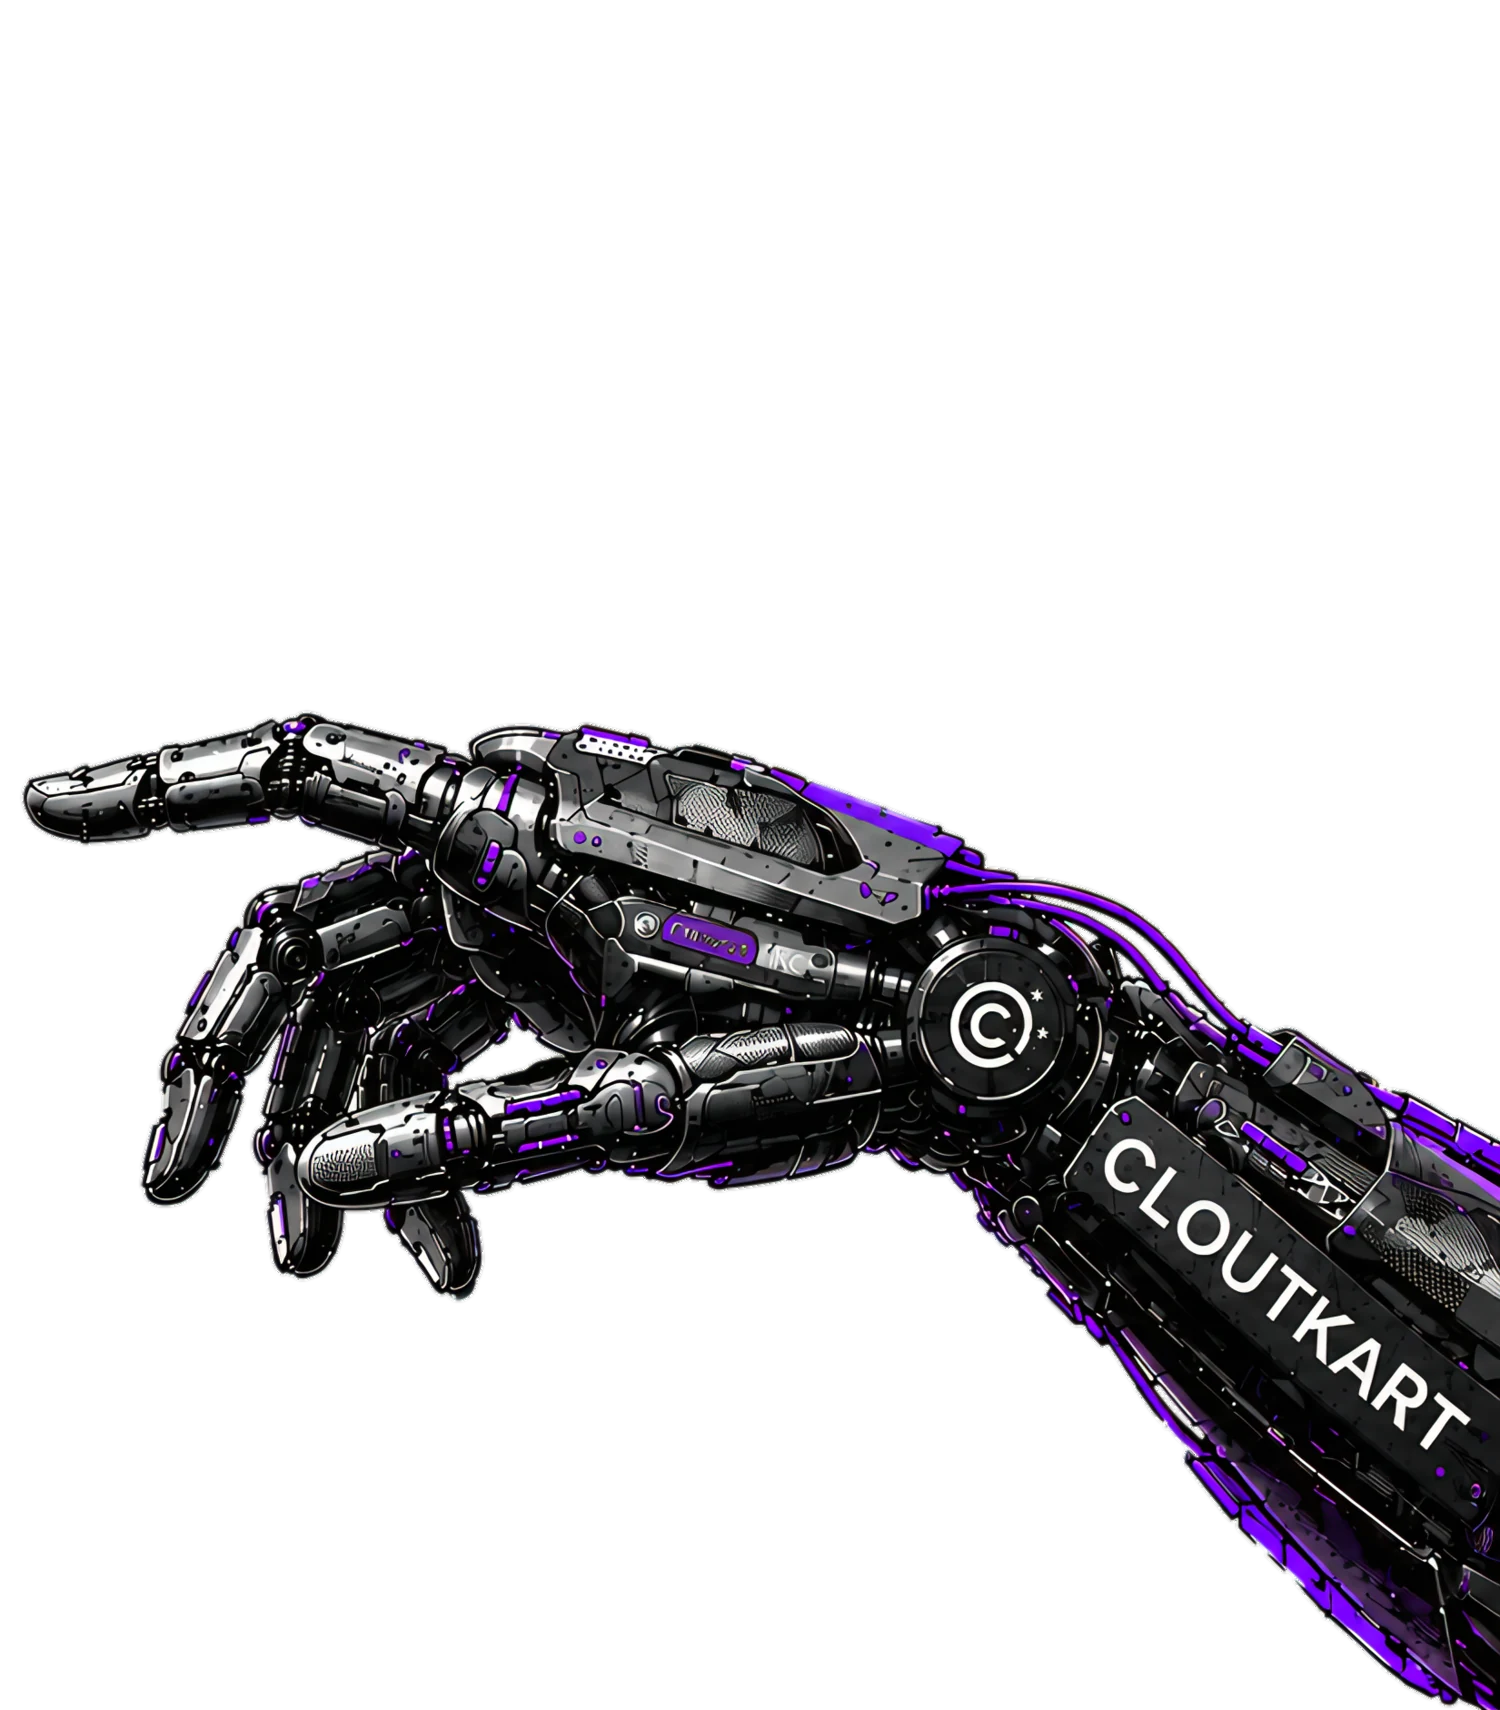
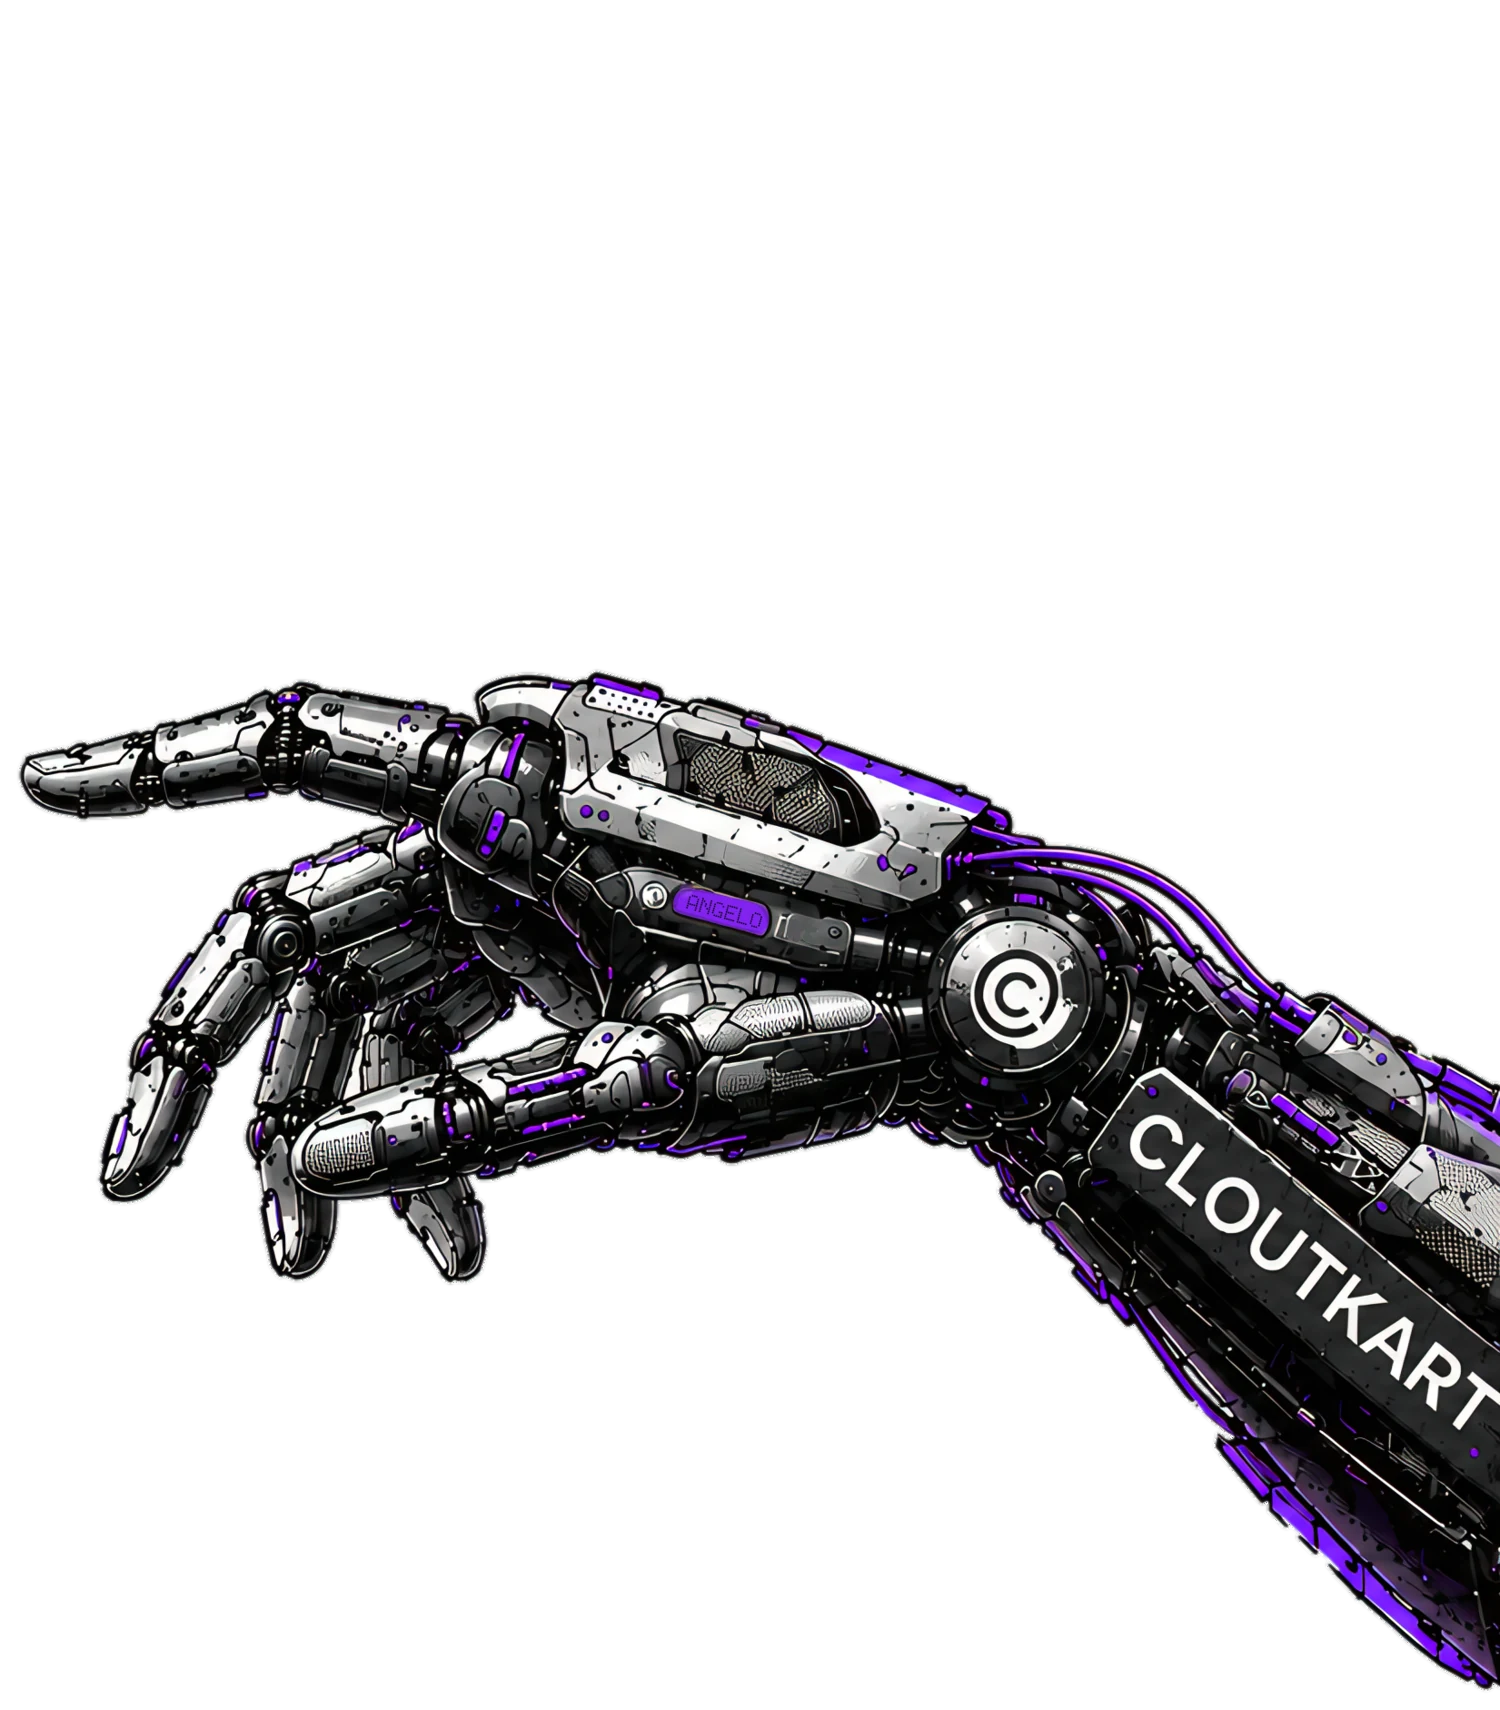
Hero polish: bigger headline, frosted subheading, visible light grid, chrome robot
- Enlarge the "Creation, / Reimagined." headline (clamp → 9rem)
- Subheading: switch to the legible body font (Hanken) on a frosted-glass panel
  (.hero-frost — canvas-tinted backdrop-blur that softens the hands behind it)
- Light mode: make the dot grid visible site-wide (global --dot-color ink/0.14;
  drop the hero-only scoped dots)
- Swap the robot hand to the chrome/silver variant (from alt hand source)

Changed region(s): [[0.0, 0.3719, 1.0, 1.0]]

diff --git a/src/components/Hero.tsx b/src/components/Hero.tsx
@@ -106,7 +106,7 @@ export default function Hero({ onSignupOpen }: Props) {
       <div className="absolute inset-0 z-0 flex items-start justify-center px-4 pt-[17vh] sm:pt-[18vh] pointer-events-none">
         <h1
           className="hero-headline font-gasdrifo font-normal text-center leading-[0.96] tracking-[-0.005em]"
-          style={{ color: 'var(--ink)', fontSize: 'clamp(3.2rem, 10vw, 8rem)' }}
+          style={{ color: 'var(--ink)', fontSize: 'clamp(3.7rem, 11vw, 9rem)' }}
         >
           <span className="reveal-clip block overflow-hidden" style={{ transitionDelay: '0ms' }}>Creation,</span>
           <span className="reveal-clip block overflow-hidden" style={{ transitionDelay: '120ms', color: 'var(--accent-ink)' }}>Reimagined.</span>
@@ -143,8 +143,8 @@ export default function Hero({ onSignupOpen }: Props) {
       </div>
 
       <div className="absolute inset-x-0 bottom-0 z-20 flex flex-col items-center text-center px-4 pb-12 sm:pb-16 pointer-events-none">
-        <p className="font-gasdrifo text-ink-body text-sm sm:text-base leading-relaxed max-w-2xl mb-6 animate-fade-up delay-200">
-          The Renaissance redefined art. <span className="font-semibold" style={{ color: 'var(--ink)' }}>AI is redefining creativity.</span> CloutKart
+        <p className="hero-frost text-base sm:text-lg leading-relaxed max-w-2xl mb-6 px-6 py-4 sm:px-8 sm:py-5 animate-fade-up delay-200" style={{ color: 'var(--ink)' }}>
+          The Renaissance redefined art. <span className="font-semibold" style={{ color: 'var(--accent-ink)' }}>AI is redefining creativity.</span> CloutKart
           brings both together to build campaigns that feel human and perform at scale.
         </p>
 

diff --git a/src/index.css b/src/index.css
@@ -114,7 +114,7 @@
   --shadow-card: 0 1px 2px rgb(20 19 26 / 0.06), 0 10px 24px -10px rgb(20 19 26 / 0.20);
   --shadow-card-hover: 0 2px 6px rgb(20 19 26 / 0.08), 0 20px 44px -12px rgb(46 20 92 / 0.30);
   --shadow-lift: 0 16px 36px -12px rgb(46 20 92 / 0.26);
-  --dot-color: transparent;          /* the telemetry frame carries the light surface */
+  --dot-color: rgb(20 19 26 / 0.14);  /* visible dot grid across the light canvas */
   --top-glow: rgb(var(--accent-rgb) / 0.10);
   --frame-line: rgb(20 19 26 / 0.10);
   --frame-tick: rgb(20 19 26 / 0.17);
@@ -150,13 +150,16 @@
     min-height: 100svh;
     background: transparent;
   }
-  /* Grid pattern in LIGHT too — the light body has no dots (telemetry carries
-     the surface), so draw the grid here, scoped to the hero, leaving the rest
-     of the light site unchanged. Dots sit above the frame; gaps let it show. */
-  [data-theme="light"] .hero-static {
-    --dot-color: rgb(20 19 26 / 0.06);
-    background-image: radial-gradient(circle, var(--dot-color) 1px, transparent 1px);
-    background-size: 28px 28px;
+
+  /* Frosted-glass panel for the hero subheading — a canvas-tinted frost that blurs
+     the hands behind it so the copy reads cleanly in both themes. */
+  .hero-frost {
+    background: rgb(var(--bg-rgb) / 0.55);
+    backdrop-filter: blur(16px) saturate(140%);
+    -webkit-backdrop-filter: blur(16px) saturate(140%);
+    border: 1px solid var(--glass-border);
+    border-radius: 18px;
+    box-shadow: var(--shadow-card);
   }
 
   .hero-headline {
